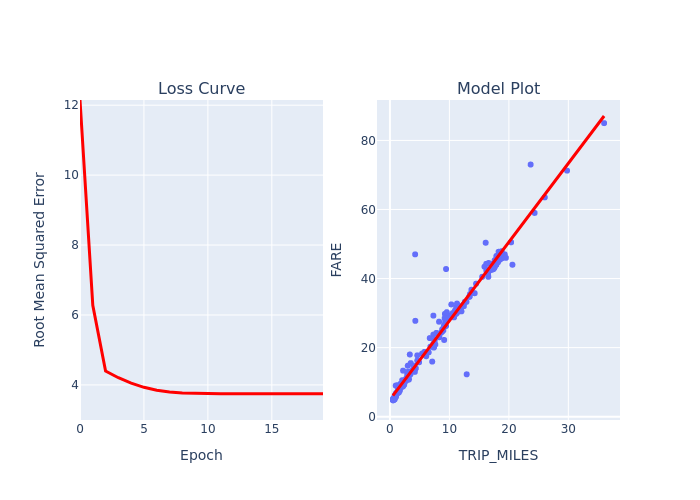
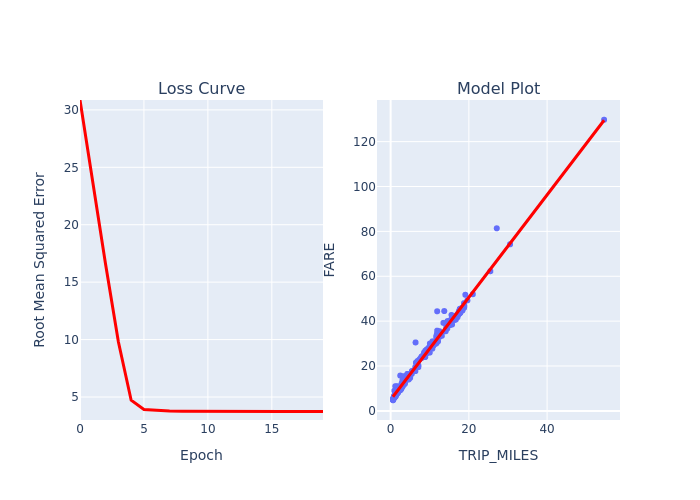
f

diff --git a/ml/my-mods/experiment1.py b/ml/my-mods/experiment1.py
@@ -13,7 +13,7 @@ features = ['TRIP_MILES']
 label = 'FARE'
 
 #Trains the model(s) based on learing_rate, epochs, batch_size, features, and label
-model_1 = t.run_experiment(im.training_df, features, label, learning_rate, epochs, batch_size)
+#model_1 = t.run_experiment(im.training_df, features, label, learning_rate, epochs, batch_size)
 model_2 = t.run_experiment(im.training_df, ['TRIP_MILES', 'TRIP_SECONDS'], label, learning_rate, epochs, batch_size)
 
 

diff --git a/ml/my-mods/dataset_exploration.py b/ml/my-mods/dataset_exploration.py
@@ -127,7 +127,7 @@ def plot_model(df, features, weights, bias, fig):
         for i in range(len(y)):
             x.append((z[i] - weights[1][0] * y[i] - bias[0]) / weights[0][0])
 
-        plane = ld.pd.DataFrame({'x':x, 'y':y, 'z':z * 3})
+        plane = ld.pd.DataFrame({'x':x, 'y':y, 'z':[z] * 3})
 
         light_yellow = [[0, '#89CFF0'], [1, '#FFDB58']]
 

diff --git a/ml/my-mods/predictions.py b/ml/my-mods/predictions.py
@@ -5,7 +5,7 @@ def format_currency(x):
 
 def build_batch(df, batch_size):
   batch = df.sample(n=batch_size).copy()
-  batch.set_index(np.arange(batch_size), inplace=True)
+  batch.set_index(ld.np.arange(batch_size), inplace=True)
   return batch
 
 def predict_fare(model, df, features, label, batch_size=50):
